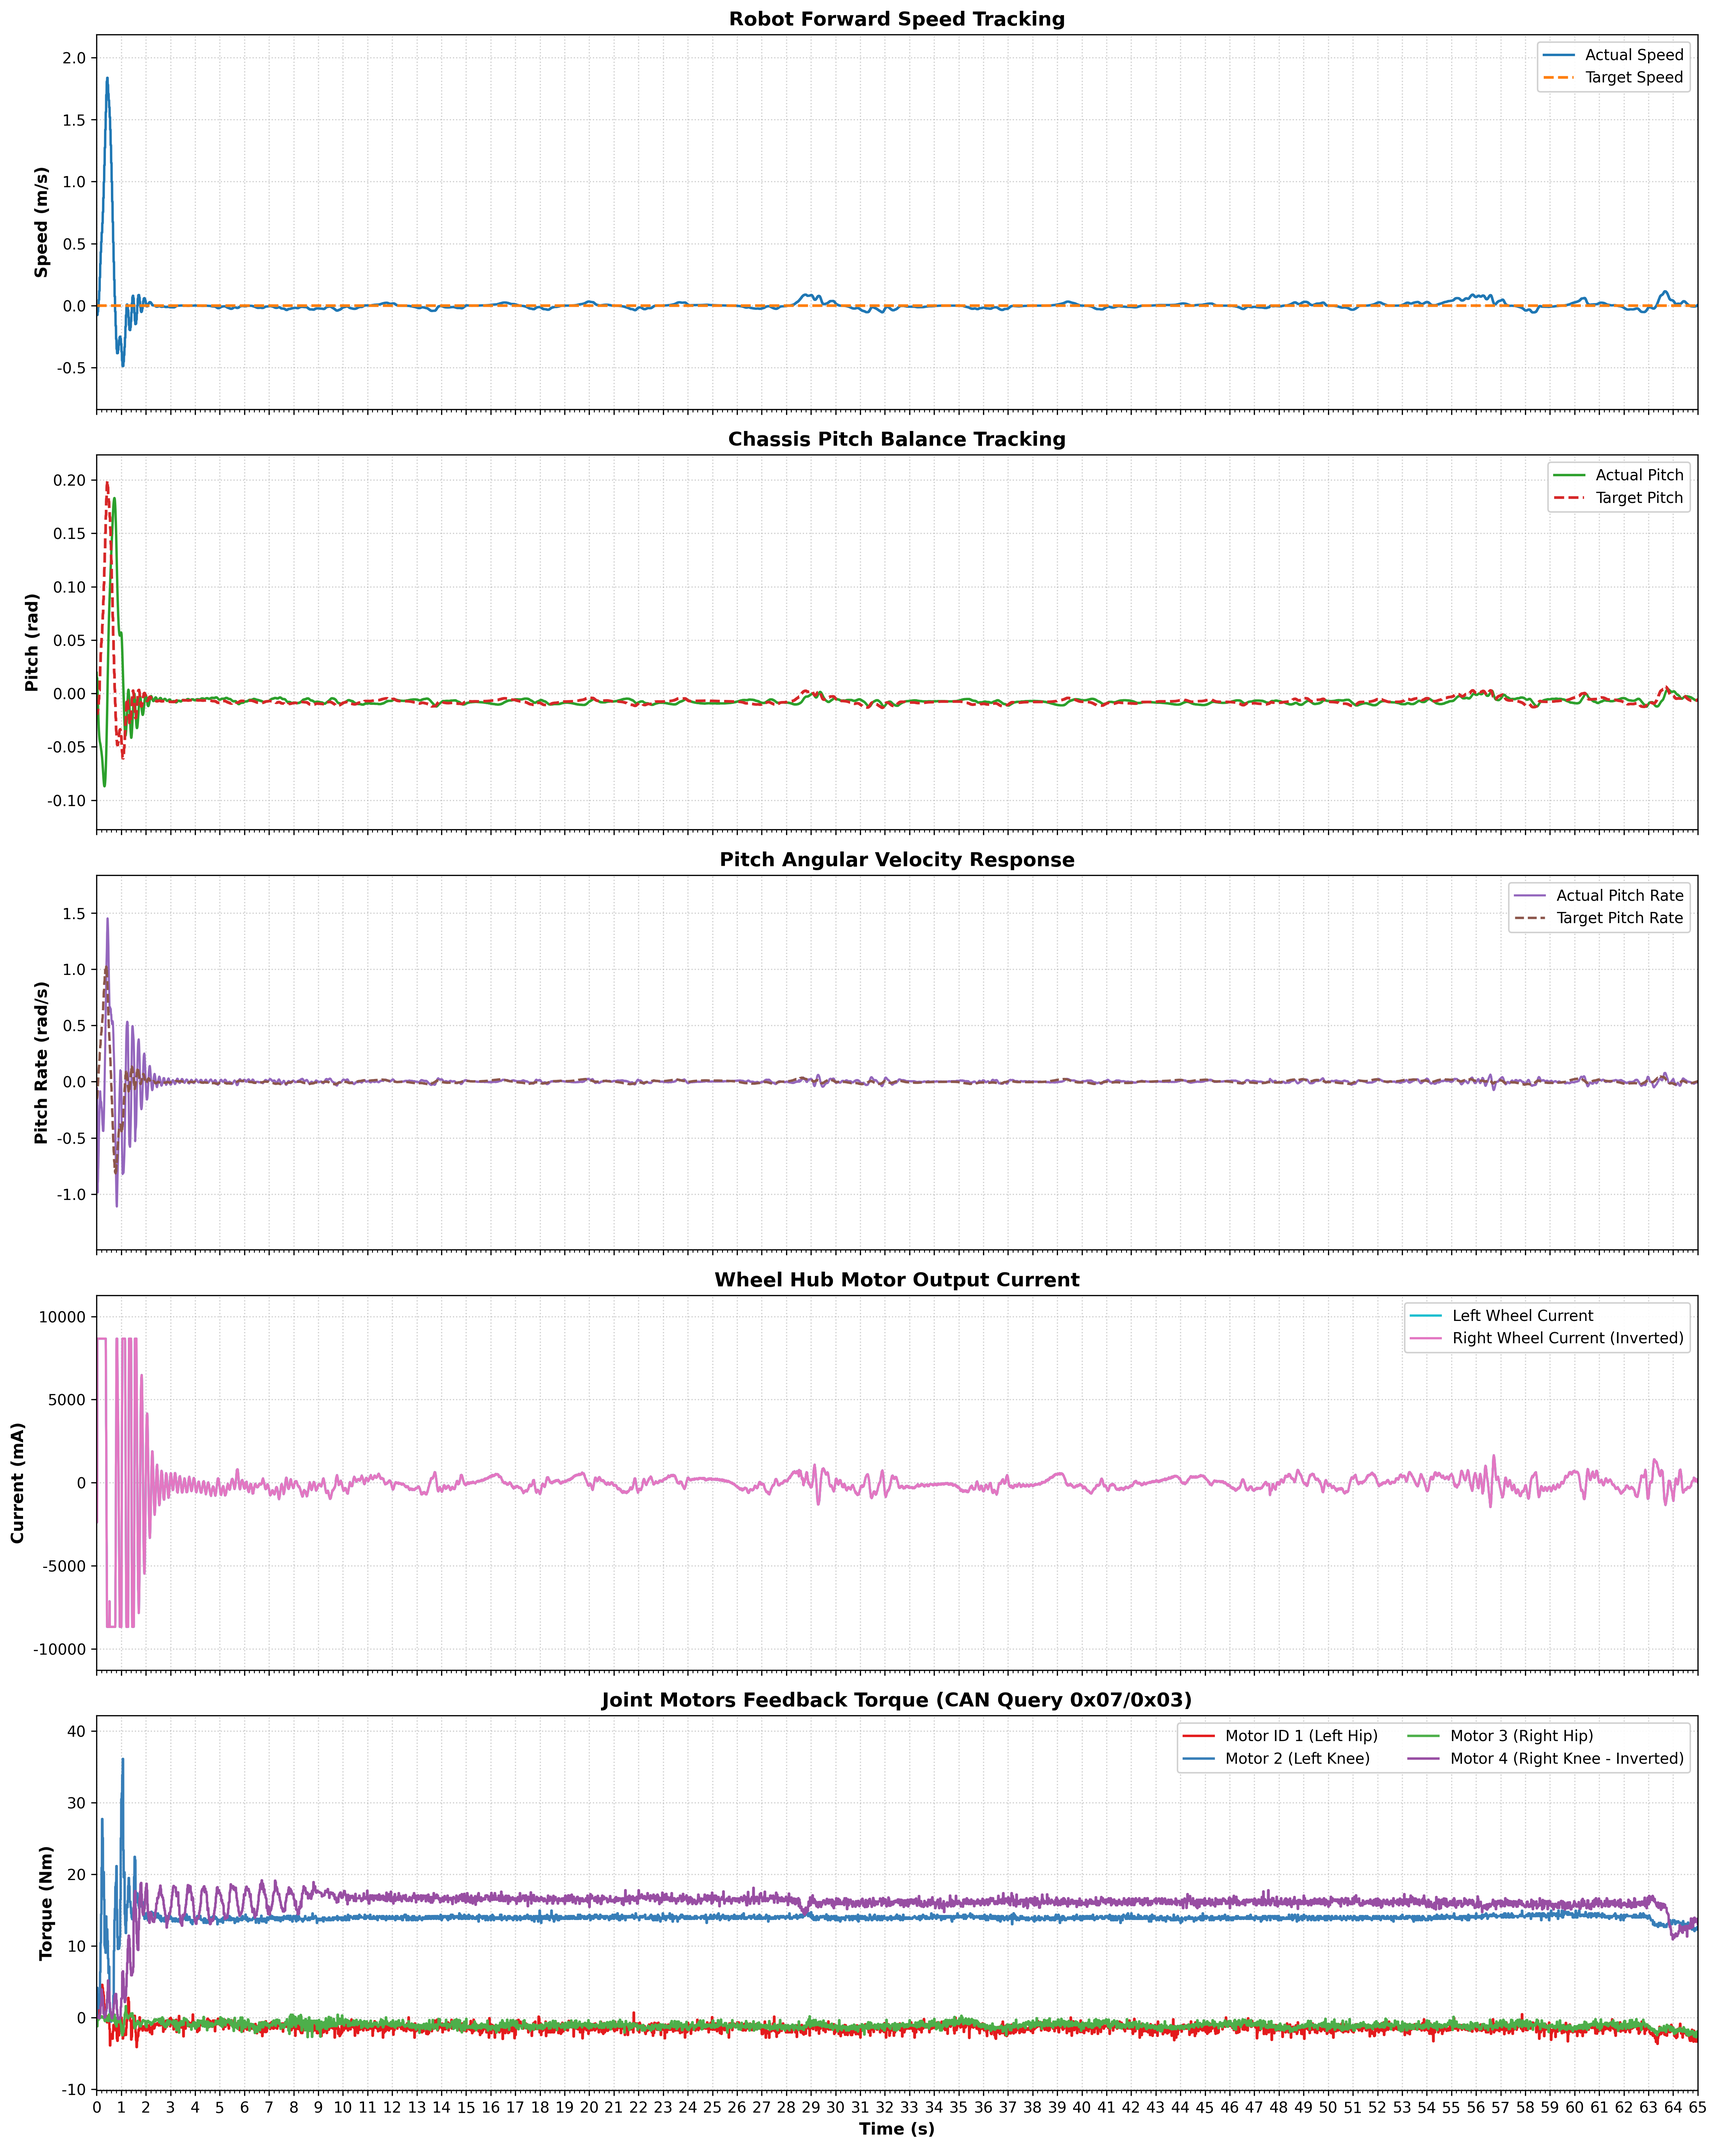
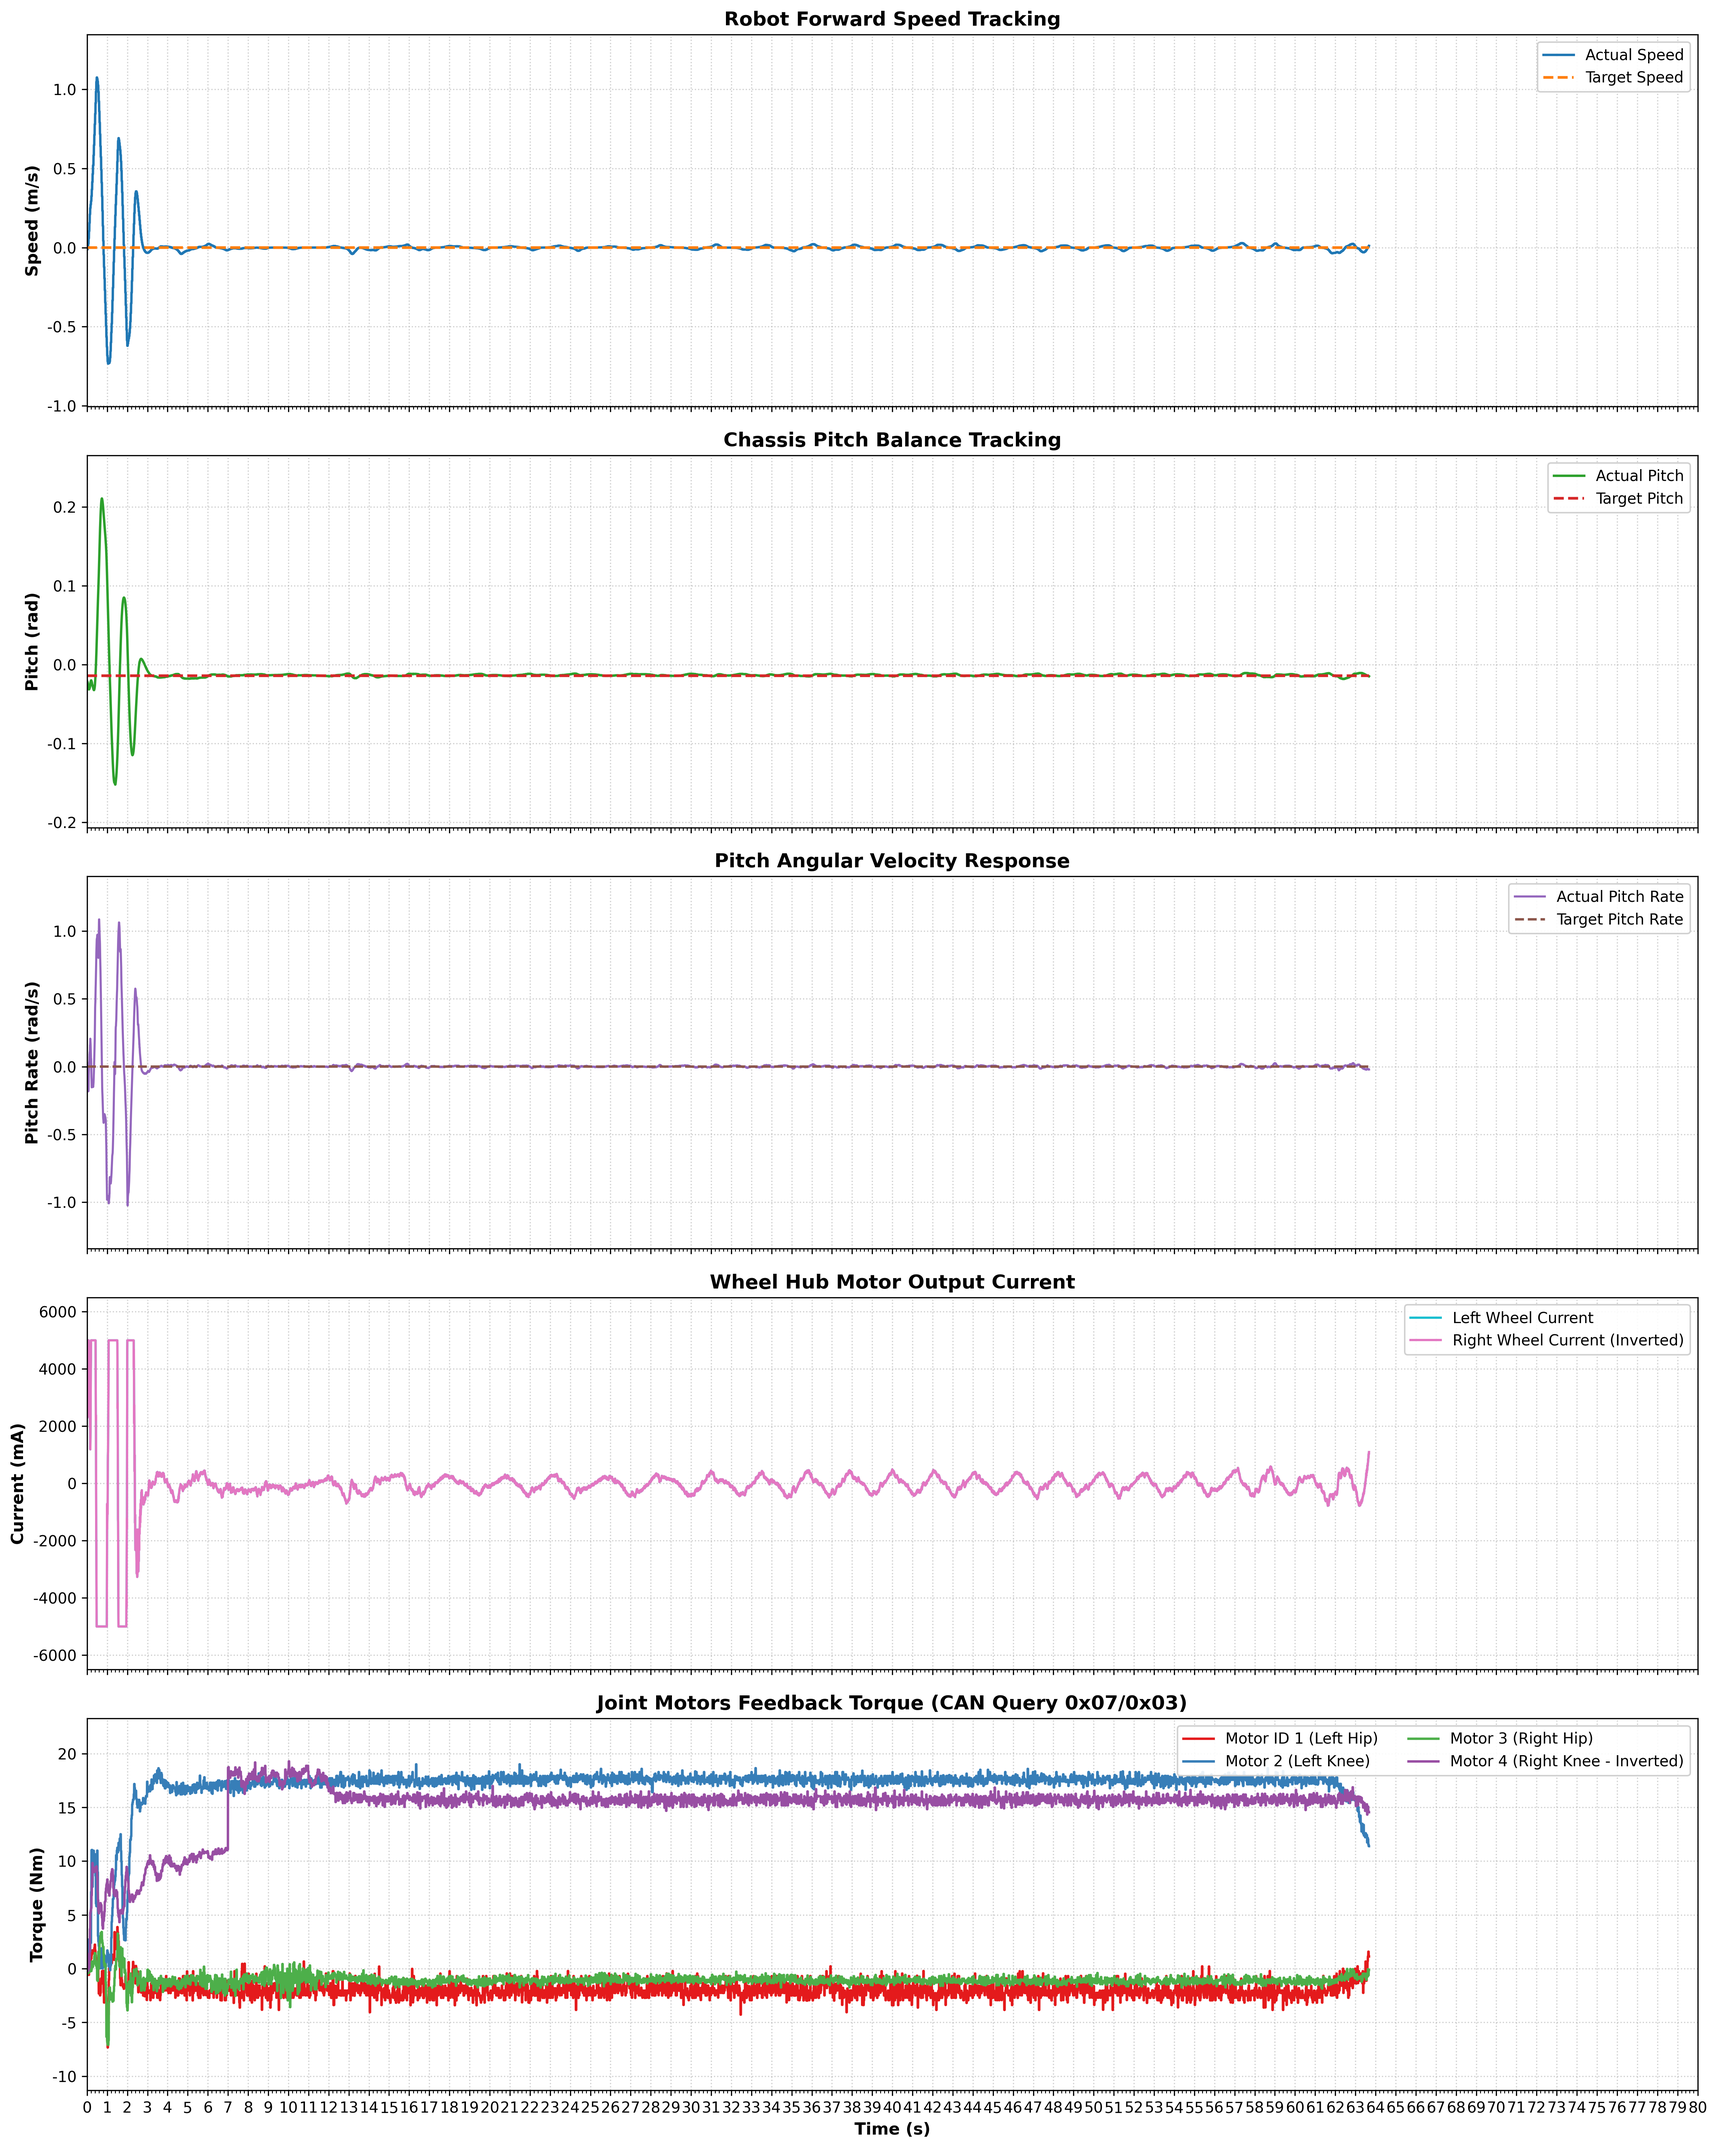
更改左右关节扭矩几乎相等

diff --git a/src/bbot_real/src/pid_balance_controller.cpp b/src/bbot_real/src/pid_balance_controller.cpp
@@ -69,7 +69,7 @@ public:
                                              gyro_stand.ramp, gyro_stand.limit);
 
         // 平衡参数
-        balance_offset_ = -0.60 * 3.14 / 180;
+        balance_offset_ = -2.0 * 3.14 / 180;
         cmd_sign_ = 1.0;
         max_cmd_x_ = 10.0;
         max_safe_pitch_ = 0.40; // 22.9°
@@ -90,7 +90,7 @@ public:
         roll_kd_ = 0.015;
         roll_offset_ = 0.0 * 3.14 / 180.0;
 
-        roll_target_ = -1.0 * 3.14 / 180.0;
+        roll_target_ = 0.5 * 3.14 / 180.0;
 
         roll_sign_ = 1.0;
         max_delta_h_ = 0.04;
@@ -167,6 +167,9 @@ public:
             "/diff_drive_controller/cmd_vel", 10);
         leg_pub_ = this->create_publisher<std_msgs::msg::Float64MultiArray>(
             "/leg_position_controller/commands", 10);
+
+        telemetry_pub_ = this->create_publisher<std_msgs::msg::Float64MultiArray>(
+            "/bbot/telemetry", 10);
 
         // 控制定时器 200Hz
         timer_ = this->create_wall_timer(5ms, std::bind(&PIDBalanceController::control_loop, this));
@@ -567,6 +570,24 @@ private:
         send_wheel_can(cmd_x, target_yaw_rate_);
         send_leg_can(dt);
 
+        std_msgs::msg::Float64MultiArray telem_msg;
+        telem_msg.data = {
+            x_dot_,                              // [0] 实际前进速度 (m/s)
+            target_speed_smoothed_,              // [1] 目标速度 (m/s)
+            pitch_,                              // [2] 实际俯仰角 Pitch (rad)
+            target_pitch_filtered_,              // [3] 目标俯仰角 (rad)
+            pitch_rate_,                         // [4] 实际角速度 Pitch Rate (rad/s)
+            target_pitch_rate_,                  // [5] 目标角速度 (rad/s)
+            left_cmd_ma_,                        // [6] 左轮电机电流 (mA)
+            -right_cmd_ma_,                      // [7] 右轮电机电流(取反) (mA)
+            motor_left_hip_.torque_feedback(),   // [8] 关节1: 左Hip力矩 (Nm)
+            motor_left_knee_.torque_feedback(),  // [9] 关节2: 左Knee力矩 (Nm)
+            motor_right_hip_.torque_feedback(),  // [10] 关节3: 右Hip力矩 (Nm)
+            -motor_right_knee_.torque_feedback() // [11] 关节4: 右Knee力矩(取反) (Nm)
+        };
+
+        telemetry_pub_->publish(telem_msg);
+
         if (logging_enabled_)
         {
             double t = now.nanoseconds() * 1e-9;
@@ -621,8 +642,8 @@ private:
         // 动态根据当前腿高比例进行增益插值
         double r = height_ratio();
 
-        pid_speed_.P = lerp(0.0f, 0.13f, r);
-        pid_speed_.I = lerp(0.0f, 0.01f, r);
+        pid_speed_.P = lerp(0.0f, 0.12f, r);
+        pid_speed_.I = lerp(0.0f, 0.05f, r);
         pid_speed_.D = lerp(0.0f, 0.0f, r);
         pid_speed_.limit = lerp(0.45f, 0.50f, r);
 
@@ -662,7 +683,7 @@ private:
 
         // 左右腿高度分配（保留 0.005m 的安全几何裕量，防止 acos(>1) 奇异）
         double max_safe_h = L_MAX_ - 0.005;
-        double h_left = clamp_value(current_height_, L_MIN_, max_safe_h);
+        double h_left = clamp_value(current_height_ + delta_h, L_MIN_, max_safe_h);
         double h_right = clamp_value(current_height_ - delta_h, L_MIN_, max_safe_h);
         last_h_left_ = h_left;
         last_h_right_ = h_right;
@@ -784,6 +805,9 @@ private:
     rclcpp::Subscription<sensor_msgs::msg::Joy>::SharedPtr joy_sub_;
     rclcpp::Publisher<geometry_msgs::msg::TwistStamped>::SharedPtr cmd_pub_;
     rclcpp::Publisher<std_msgs::msg::Float64MultiArray>::SharedPtr leg_pub_;
+
+    rclcpp::Publisher<std_msgs::msg::Float64MultiArray>::SharedPtr telemetry_pub_;
+
     rclcpp::TimerBase::SharedPtr timer_;
     rclcpp::Time last_time_;
 

diff --git a/src/bbot_real/src/lqr_balance_controller.cpp b/src/bbot_real/src/lqr_balance_controller.cpp
@@ -56,7 +56,7 @@ public:
         current_gain_ = gain_high_;
 
         // 平衡与重心参数
-        balance_offset_ = -0.77 * 3.14 / 180;
+        balance_offset_ = -0.8 * 3.14 / 180;
         balance_offset_auto_ = balance_offset_;
         ki_vel_trim_ = 0.0;
         cmd_scale_ = 1.0;
@@ -83,6 +83,7 @@ public:
         // roll_ki_ = 0.0;
         // roll_kd_ = 0.0;
 
+        roll_target_ = 0.5 * 3.14 / 180.0;
         roll_offset_ = 0.0 * 3.14 / 180.0;
         roll_sign_ = 1.0;
         max_delta_h_ = 0.04;
@@ -143,7 +144,7 @@ public:
         RCLCPP_INFO(this->get_logger(), "轮毂电机 node=%d", wheel_node_id_);
 
         wheel_radius_ = 0.07;
-        max_wheel_speed_ = 3.0;
+        max_wheel_speed_ = 5.0;
 
         // 话题订阅与发布
         imu_sub_ = this->create_subscription<sensor_msgs::msg::Imu>(

diff --git a/src/bbot_real/src/data_logs/data_plots2.py b/src/bbot_real/src/data_logs/data_plots2.py
@@ -13,7 +13,7 @@ base_path = "/home/robot/bbot_real/src/bbot_real/src/data_logs/"
 # 时间显示范围 (单位: 秒)
 # ===============================
 TIME_START = 0
-TIME_END = 65.0
+TIME_END = 80.0
 
 
 # ==============================================================================

diff --git a/README.md b/README.md
@@ -1,7 +1,9 @@
+
 # 启动命令
 ## 1. CAN总线初始化（启动时执行一次）
 
 sudo ip link set can0 up type can bitrate 1000000
+
 
 ## 2. 编译
 
@@ -142,4 +144,31 @@ git push
 ```bash
 git pull
 
+```
+
+ros2 run foxglove_bridge foxglove_bridge
+
+实际前进速度	/bbot/telemetry.data[0]
+
+目标前进速度	/bbot/telemetry.data[1]
+
+实际俯仰角 (Pitch)	/bbot/telemetry.data[2]
+
+目标俯仰角 (Pitch)	/bbot/telemetry.data[3]
+
+实际角速度 (Pitch Rate)	/bbot/telemetry.data[4]
+
+目标角速度 (Pitch Rate)	/bbot/telemetry.data[5]
+
+左轮电流 (mA)	/bbot/telemetry.data[6]
+
+右轮电流 (取反后 mA)	/bbot/telemetry.data[7]
+
+电机1: 左髋力矩	/bbot/telemetry.data[8]
+
+电机2: 左膝力矩	/bbot/telemetry.data[9]
+
+电机3: 右髋力矩	/bbot/telemetry.data[10]
+
+电机4: 右膝力矩 (取反)	/bbot/telemetry.data[11]
 ```
